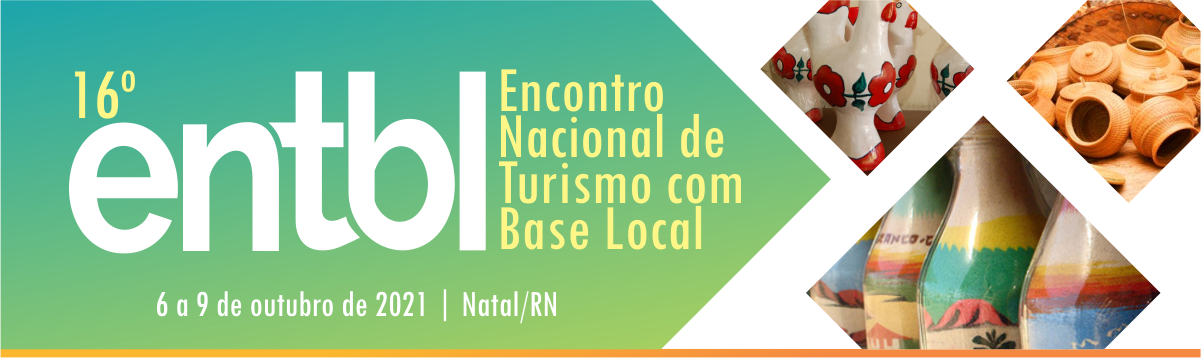
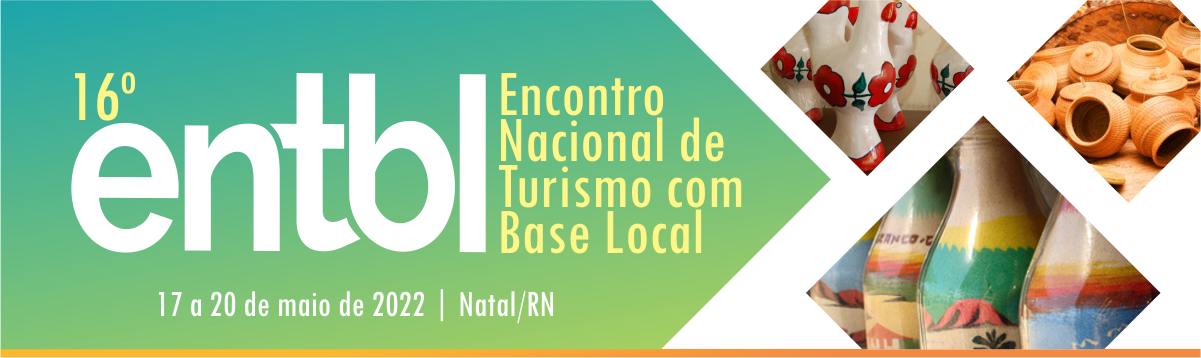
Changes requested by anderson

diff --git a/src/app/app.component.html b/src/app/app.component.html
@@ -166,10 +166,10 @@
     <div class="container">
       <div class="row">
         <div class="col-md-12">
-            <p>Inscrições: 01 abril a 06 outubro de 2021</p>
-            <p>Submissão de trabalhos: 01 abril a 15 de julho de 2021</p>
-            <p>Lançamento da Programação Oficial: 30 de agosto de 2021</p>
-            <p>Realização do Evento: 06 a 09 de outubro de 2021</p>
+            <p>Abertura das Inscrições e Submissão de Trabalhos = 01 out/2021 a 28 fev/2022</p>
+            <p>Resultados dos trabalhos aprovados = 30 mar/2022</p>
+            <p>Lançamento da Programação Oficial = 30 mar/2022</p>
+            <p>Nova Data do Evento = 17 a 20 de maio de 2022</p>
         </div>
       </div>
     </div>
@@ -390,7 +390,6 @@
                       <div width="100%" class="item">
                           <div class="organizacao-header">. </div>
                           <div class="support-container">
-                              <img width="83px" height="54px" src="assets/ng2/O_VERBO.png">
                               <img width="127px" height="52px" src="assets/ng2/O_COORTUR.png">
                               <img width="130px" height="59px" src="assets/ng2/O_PPGTUR.png">
                       </div>
@@ -803,18 +802,17 @@
 <div class="modal-news" [ngClass]="{'open': modalPrazo}">
     <div class="container-all">
       <div class="header">
-         ATENÇÃO
+         COMUNICADO
         <a (click)="_togglePrazoModal()" (keypress.enter)="_togglePrazoModal()">FECHAR</a>
       </div>
       <div class="container-modal">
-          <p>Atenção para novas datas:</p>
-          <p>Resultado das propostas aprovadas: 30 de novembro de 2020</p>
-          <p>Submissão de trabalhos (resumos expandidos): 14 dezembro de 2020 – 30 de maio de 2021 </p>
-          <p>Realização das Inscrições:	 01 de fevereiro - 06 outubro de 2021</p>
-          <p>Lançamento da Programação Oficial: 15 de março de 2021</p>
-          <p>Resultado dos trabalhos aprovados: 30 de julho de 2021 </p>
-          <p>Envio de artigo completo (melhores resumos) para avaliação e publicação em periódico científico (RTC):	30 de setembro de 2021 </p>
-          <p>Realização do Evento: 06 a 09 de outubro de 2021 </p>
+			  <p>Em virtude da pandemia de Covid-19, o ENTBL foi adiado para o próximo ano. Em breve teremos todas as atualizações aqui no site!</p>
+			  <p>Cronograma Alterado:</p> 
+
+			  <p>Abertura das Inscrições e Submissão de Trabalhos = 01 out/2021 a 28 fev/2022</p>
+			  <p>Resultados dos trabalhos aprovados = 30 mar/2022</p>
+			  <p>Lançamento da Programação Oficial = 30 mar/2022</p>
+			  <p>Nova Data do Evento = 17 a 20 de maio de 2022</p>
       </div>
     </div>
   </div>
